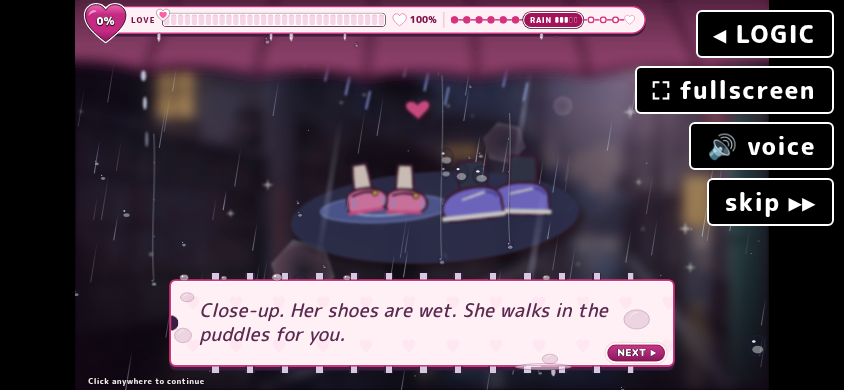
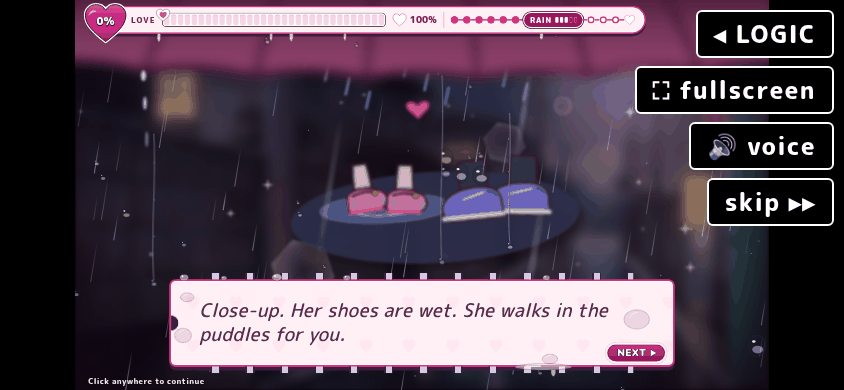
puddle: slipped bands off her face, after shots + ref|before|after compare, Impeccable clean
Claude-Session: https://claude.ai/code/session_01SJvvUToGvjR4saHp1762z5

diff --git a/research/sprint-0930/puddle/pipeline/compare.py b/research/sprint-0930/puddle/pipeline/compare.py
@@ -1,0 +1,34 @@
+"""Puddle beat compare sheet: ref | before | after (v2-rain 2), 2 rows, labelled; + quantise the shots to 256 colours.
+Row 1: ref 06 (the key composition) | before (rain-alley + the feet-wet insert) | after (still, pose 0)
+Row 2: ref 01 (the Shinkai sky / wires reflection) | after pose 1 (live, stepped) | after on a phone (844x390)
+usage: python3 compare.py <refs dir> <puddle dir>      (refs are NOT committed; the sheet carries a small thumbnail)"""
+import sys, os
+from PIL import Image, ImageDraw
+
+REF, D = sys.argv[1], sys.argv[2]
+S = os.path.join(D, 'shots'); OUT = os.path.join(D, 'compare'); os.makedirs(OUT, exist_ok=True)
+H, PAD = 400, 16
+for f in os.listdir(S):
+    if f.endswith('.png'):
+        p = os.path.join(S, f); im = Image.open(p)
+        if im.mode != 'P': im.convert('RGB').quantize(256).save(p, optimize=True)
+
+
+def fit(p):
+    im = Image.open(p).convert('RGB'); return im.resize((round(im.width * H / im.height), H), Image.LANCZOS)
+
+
+rows = [[(f'{REF}/06.jpg', 'ref 06: feet at the top, reflection below'), (f'{S}/before-v2-rain-2.png', 'before: rain-alley + feet insert'), (f'{S}/after-v2-rain-2.png', 'after: rain-puddle (still)')],
+        [(f'{REF}/01.jpg', 'ref 01: Shinkai sky + wires in water'), (f'{S}/after-v2-rain-2-live.png', 'after: pose 1 (stepped 625 ms)'), (f'{S}/after-v2-rain-2-phone.png', 'after: phone 844x390')]]
+ims = [[(fit(p), t) for p, t in r] for r in rows]
+W = max(sum(i.width for i, _ in r) + PAD * (len(r) + 1) for r in ims)
+sheet = Image.new('RGB', (W, (H + 44) * len(ims) + PAD), '#14121c')
+d = ImageDraw.Draw(sheet)
+y = PAD
+for r in ims:
+    x = PAD
+    for im, t in r:
+        sheet.paste(im, (x, y + 28)); d.text((x, y + 6), t, fill='#f4e8f0'); x += im.width + PAD
+    y += H + 44
+sheet.quantize(256).save(os.path.join(OUT, 'v2-rain-2-ref-before-after.png'), optimize=True)
+print('wrote', os.path.join(OUT, 'v2-rain-2-ref-before-after.png'))

diff --git a/research/sprint-0930/puddle/PLAN.md b/research/sprint-0930/puddle/PLAN.md
@@ -55,3 +55,7 @@ switch to the fallback.
 
 ## Deliverables
 - research/sprint-0930/puddle/compare/ (ref | before | after), shots, npm test + build green, Impeccable pass.
+
+## Result (after)
+- Shipped the ambitious version (no fallback): bg rain-puddle, trace 341 KB. Face at y ~560, clear of the box (770).
+- compare/v2-rain-2-ref-before-after.png; Impeccable: 0 findings; npm test 402/402; vite build green.
